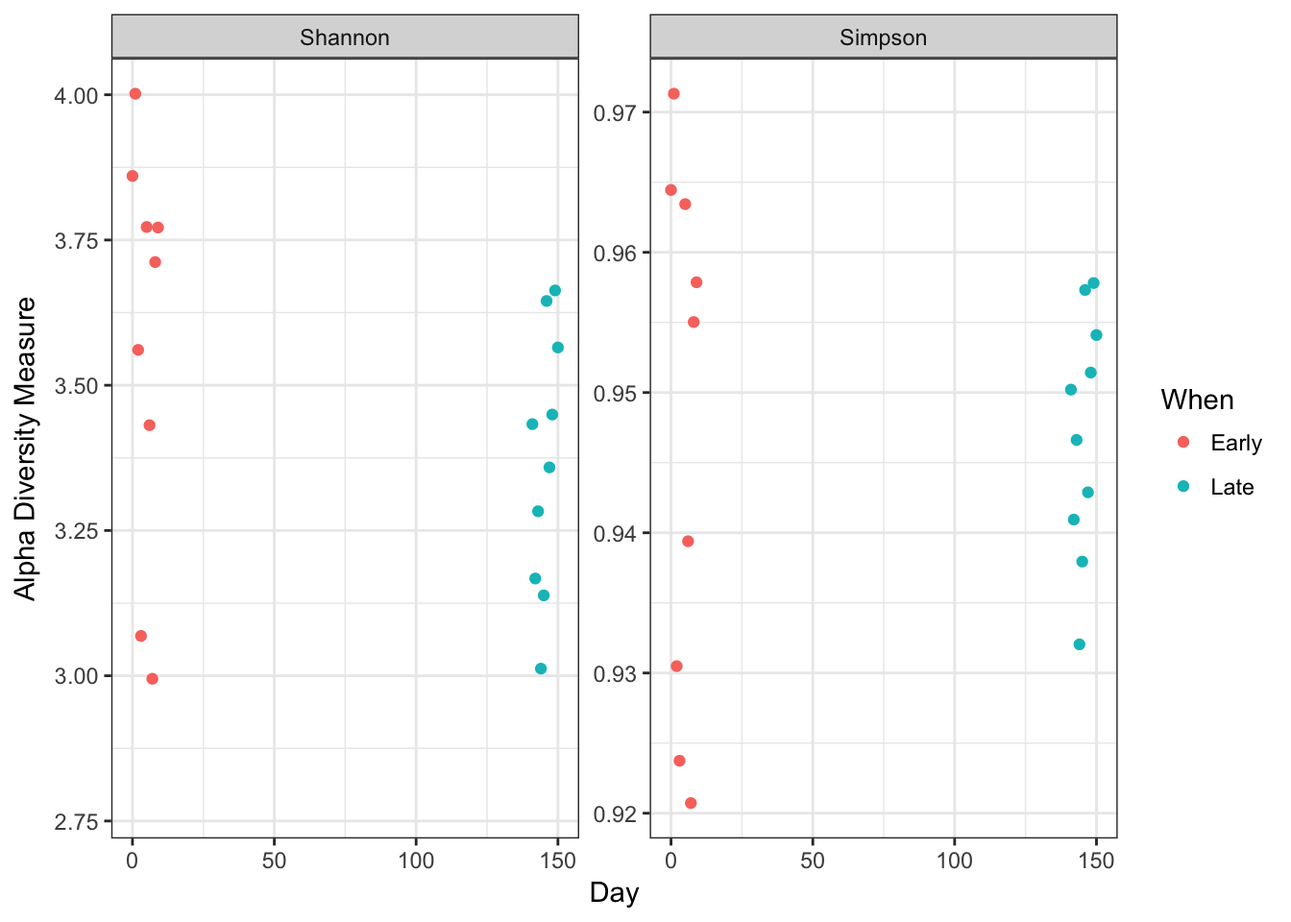
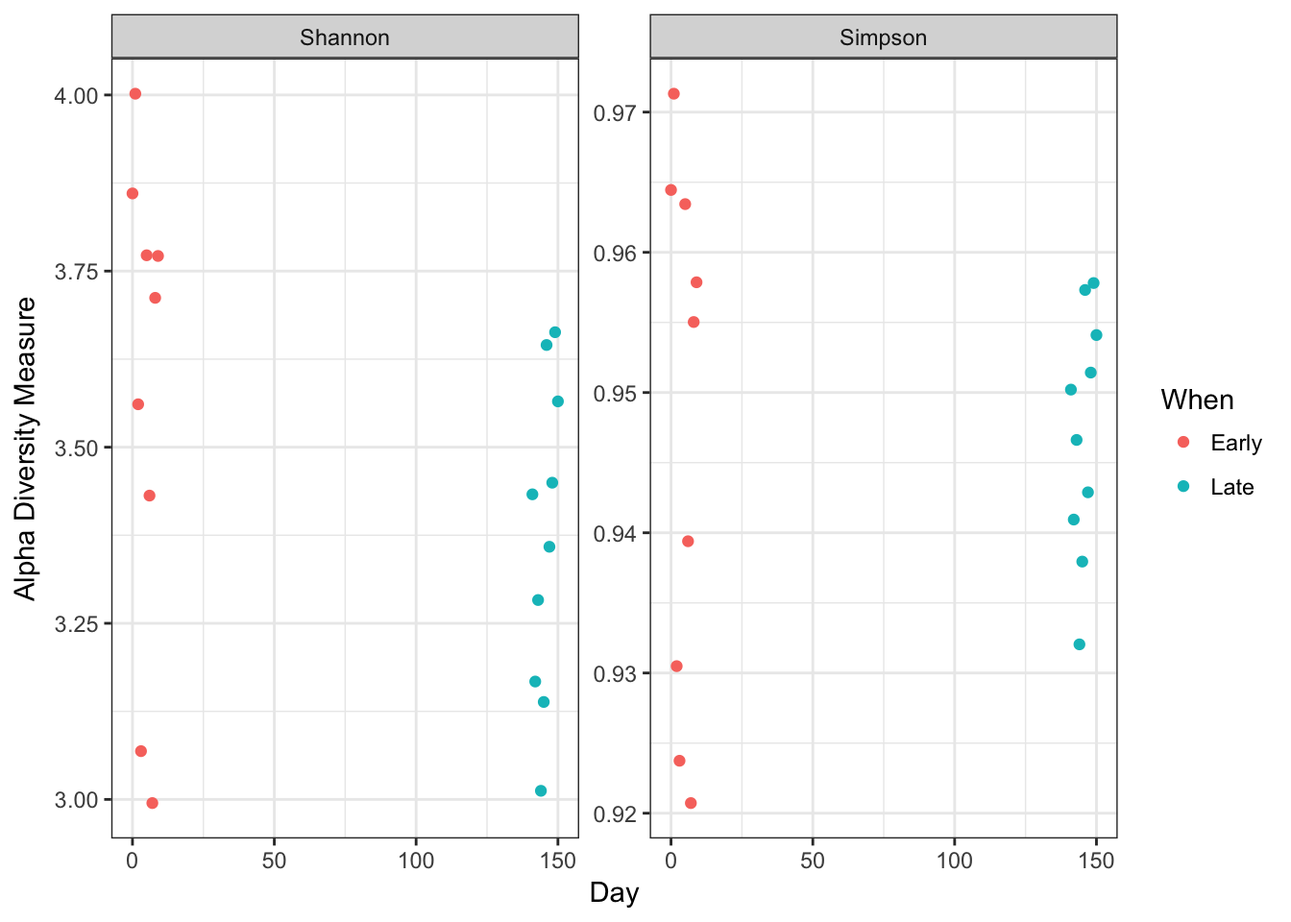
Minor fixes to 1.4 Tutorial
Gotta remove that mock sample to get a useful ordination!

diff --git a/tutorial_1_4.html b/tutorial_1_4.html
@@ -269,7 +269,7 @@ $(document).ready(function () {
 </div>
 
 
-<p>Here we walk through version 1.4 of the DADA2 pipeline on a small multi-sample dataset. Our starting point is a set of Illumina-sequenced paired-end fastq files that have been split (or “demultiplexed”) by sample and from which the barcodes/adapters have already been removed. The end product is a <strong>sequence table</strong>, a higher-resolution analogue of the ubiquitous “OTU table”, which records the number of times each ribosomal sequence variant (SV) was observed in each sample. We also assign taxonomy to the output sequences, and demonstrate how the data can be imported into the popular <a href="https://joey711.github.io/phyloseq/">phyloseq</a> R package for the analysis of microbiome data.</p>
+<p>Here we walk through version 1.4 of the DADA2 pipeline on a small multi-sample dataset. Our starting point is a set of Illumina-sequenced paired-end fastq files that have been split (or “demultiplexed”) by sample and from which the barcodes/adapters have already been removed. The end product is a <strong>sequence variant (SV) table</strong>, a higher-resolution analogue of the ubiquitous “OTU table”, which records the number of times each ribosomal sequence variant (SV) was observed in each sample. We also assign taxonomy to the output sequences, and demonstrate how the data can be imported into the popular <a href="https://joey711.github.io/phyloseq/">phyloseq</a> R package for the analysis of microbiome data.</p>
 <hr />
 <div id="starting-point" class="section level1">
 <h1>Starting point</h1>
@@ -283,11 +283,11 @@ $(document).ready(function () {
 </div>
 <div id="getting-ready" class="section level1">
 <h1>Getting ready</h1>
-<p>First we load the necessary libraries. If you don’t already have the dada2 package, see the <a href="dada-installation.html">dada2 installation instructions</a>. The ggplot2 package is also available from <a href="http://bioconductor.org/install/">Bioconductor</a>:</p>
+<p>First we load the <code>dada2</code> library. If you don’t already have the dada2 package, see the <a href="dada-installation.html">dada2 installation instructions</a>:</p>
 <pre class="r"><code>library(dada2); packageVersion(&quot;dada2&quot;)</code></pre>
 <pre><code>## [1] &#39;1.3.4&#39;</code></pre>
 <p><em>If your dada2 version is &lt;1.3.4 you must upgrade to the current development version to run this workflow. See the <a href="http://benjjneb.github.io/dada2/dada-installation.html#install-from-source">installation from source instructions</a>: the <code>devtools</code> method is probably the easiest.</em></p>
-<p>The data we will work with are the same as those in the <a href="http://www.mothur.org/wiki/MiSeq_SOP">Mothur Miseq SOP</a> walkthrough. Download the <a href="http://www.mothur.org/w/images/d/d6/MiSeqSOPData.zip">example data</a> and unzip it. These files represent longitudinal samples from a mouse post-weaning as well as one mock community control. But for now just consider them as paired-end fastq files to be processed. Define the following path variable so that it points to the extracted directory on <strong>your</strong> machine:</p>
+<p>The data we will work with are the same as those in the <a href="http://www.mothur.org/wiki/MiSeq_SOP">Mothur Miseq SOP</a> walkthrough. Download the <a href="http://www.mothur.org/w/images/d/d6/MiSeqSOPData.zip">example data</a> and unzip. These files represent longitudinal samples from a mouse post-weaning and one mock community control. For now just consider them paired-end fastq files to be processed. Define the following path variable so that it points to the extracted directory on <strong>your</strong> machine:</p>
 <pre class="r"><code>path &lt;- &quot;~/MiSeq_SOP&quot; # CHANGE ME to the directory containing the fastq files after unzipping.
 list.files(path)</code></pre>
 <pre><code>##  [1] &quot;F3D0_S188_L001_R1_001.fastq&quot;   &quot;F3D0_S188_L001_R2_001.fastq&quot;  
@@ -309,41 +309,41 @@ list.files(path)</code></pre>
 ## [33] &quot;F3D7_S195_L001_R1_001.fastq&quot;   &quot;F3D7_S195_L001_R2_001.fastq&quot;  
 ## [35] &quot;F3D8_S196_L001_R1_001.fastq&quot;   &quot;F3D8_S196_L001_R2_001.fastq&quot;  
 ## [37] &quot;F3D9_S197_L001_R1_001.fastq&quot;   &quot;F3D9_S197_L001_R2_001.fastq&quot;  
-## [39] &quot;full&quot;                          &quot;HMP_MOCK.v35.fasta&quot;           
-## [41] &quot;Mock_S280_L001_R1_001.fastq&quot;   &quot;Mock_S280_L001_R2_001.fastq&quot;  
-## [43] &quot;mouse.dpw.metadata&quot;            &quot;mouse.time.design&quot;            
-## [45] &quot;stability.batch&quot;               &quot;stability.files&quot;</code></pre>
-<p>If the packages successfully loaded and your listed files match those here, then you are ready to go through the DADA2 pipeline.</p>
+## [39] &quot;filtered&quot;                      &quot;full&quot;                         
+## [41] &quot;HMP_MOCK.v35.fasta&quot;            &quot;Mock_S280_L001_R1_001.fastq&quot;  
+## [43] &quot;Mock_S280_L001_R2_001.fastq&quot;   &quot;mouse.dpw.metadata&quot;           
+## [45] &quot;mouse.time.design&quot;             &quot;stability.batch&quot;              
+## [47] &quot;stability.files&quot;</code></pre>
+<p>If the package successfully loaded and your listed files match those here, you are ready to go through the DADA2 pipeline.</p>
 <p> </p>
 </div>
-<div id="filtering-and-trimming" class="section level1">
-<h1>Filtering and Trimming</h1>
+<div id="filter-and-trim" class="section level1">
+<h1>Filter and Trim</h1>
 <p>First we read in the names of the fastq files, and perform some string manipulation to get lists of the forward and reverse fastq files in matched order:</p>
 <pre class="r"><code># Sort ensures forward/reverse reads are in same order
 fnFs &lt;- sort(list.files(path, pattern=&quot;_R1_001.fastq&quot;))
 fnRs &lt;- sort(list.files(path, pattern=&quot;_R2_001.fastq&quot;))
-# Get sample names, assuming filenames have format: SAMPLENAME_XXX.fastq
+# Extract sample names, assuming filenames have format: SAMPLENAME_XXX.fastq
 sample.names &lt;- sapply(strsplit(fnFs, &quot;_&quot;), `[`, 1)
 # Specify the full path to the fnFs and fnRs
 fnFs &lt;- file.path(path, fnFs)
 fnRs &lt;- file.path(path, fnRs)</code></pre>
-<p><strong><span style="color:red">If using this workflow on your own data:</span></strong> The string manipulations above, especially the extraction of sample names from the file names, may have to be modified.</p>
+<p><strong><span style="color:red">If using this workflow on your own data:</span></strong> The string manipulations may have to be modified, especially the extraction of sample names from the file names.</p>
 <div id="examine-quality-profiles-of-forward-and-reverse-reads" class="section level2">
 <h2>Examine quality profiles of forward and reverse reads</h2>
-<p>It is important to look at your data. We start by visualizing the quality profiles along the sequencing reads.</p>
-<p><strong>Visualize the quality profile of the forward reads</strong>:</p>
+<p>It is important to look at your data. We start by visualizing the quality profiles of the forward reads:</p>
 <pre class="r"><code>plotQualityProfile(fnFs[1:2])</code></pre>
 <p><img src="tutorial_1_4_files/figure-html/see-quality-F-1.png" width="672" /></p>
 <p>The forward reads are good quality. We generally advise trimming the last few nucleotides to avoid less well-controlled errors that can arise there. There is no suggestion from these quality profiles that any additional trimming is needed, so we will truncate the forward reads at position 240 (trimming the last 10 nucleotides).</p>
-<p><strong>Visualize the quality profile of the reverse reads</strong>:</p>
+<p>Now we visualize the quality profile of the reverse reads:</p>
 <pre class="r"><code>plotQualityProfile(fnRs[1:2])</code></pre>
 <p><img src="tutorial_1_4_files/figure-html/see-quality-R-1.png" width="672" /></p>
-<p>The reverse reads are of significantly worse quality, especially at the end, which is common in Illumina sequencing. This isn’t too worrisome, DADA2 incorporates quality information into its error model which makes the algorithm <a href="https://twitter.com/bejcal/status/771010634074820608">robust to lower quality sequence</a>, but trimming as the average qualities crash is still a good idea as long as our reads will still overlap. We will truncate at position 160 where the quality distribution crashes.</p>
-<p><strong><span style="color:red">If using this workflow on your own data:</span></strong> <strong>Your reads must overlap after truncation in order to merge them later!!!</strong> The 2x250 V4 sequence data being analyzed here is almost completely overlapping, thus our trimming can be completely guided by the quality scores. If you are using a less-overlapping primer set, like V1-V2 or V3-V4, you must keep enough of each read to maintain the overlap between them (the more the better).</p>
+<p>The reverse reads are significantly worse quality, especially at the end, which is common in Illumina sequencing. This isn’t too worrisome, DADA2 incorporates quality information into its error model which makes the algorithm <a href="https://twitter.com/bejcal/status/771010634074820608">robust to lower quality sequence</a>, but trimming as the average qualities crash is still a good idea as long as our reads will still overlap. We will truncate at position 160 where the quality distribution crashes.</p>
+<p><strong><span style="color:red">If using this workflow on your own data:</span></strong> <strong>Your reads must overlap after truncation in order to merge them later!!!</strong> The tutorial is using 2x250 V4 sequence data, so the forward and reverse reads almost completely overlap and our trimming can be completely guided by the quality scores. If you are using a less-overlapping primer set, like V1-V2 or V3-V4, your <code>truncLen</code> must be large enough to maintain the overlap between them (the more the better).</p>
 </div>
 <div id="perform-filtering-and-trimming" class="section level2">
 <h2>Perform filtering and trimming</h2>
-<p>First we’ll define the filenames for the filtered files, and create a subdirectory to place them in:</p>
+<p>We define the filenames for the filtered fastq.gz files:</p>
 <pre class="r"><code>filt_path &lt;- file.path(path, &quot;filtered&quot;) # Place filtered files in filtered/ subdirectory
 filtFs &lt;- file.path(filt_path, paste0(sample.names, &quot;_F_filt.fastq.gz&quot;))
 filtRs &lt;- file.path(filt_path, paste0(sample.names, &quot;_R_filt.fastq.gz&quot;))</code></pre>
@@ -361,12 +361,13 @@ head(out)</code></pre>
 ## F3D143_S209_L001_R1_001.fastq     3178      2941
 ## F3D144_S210_L001_R1_001.fastq     4827      4312</code></pre>
 <p><strong><span style="color:red">If using this workflow on your own data:</span></strong> The standard filtering parameters are starting points, not set in stone. For example, if too few reads are passing the filter, considering relaxing <code>maxEE</code>, perhaps especially on the reverse reads (eg. <code>maxEE=c(2,5)</code>). If you want to speed up downstream computation, consider tightening <code>maxEE</code>. For pair-end reads consider the length of your amplicon when choosing <code>truncLen</code> as <strong>your reads must overlap after truncation in order to merge them later!!!</strong></p>
+<p><strong><span style="color:red">If using this workflow on your own data:</span></strong> For common ITS amplicon strategies, it is undesirable to truncate reads to a fixed length due to the large amount of length variation at that locus. That is OK, just leave out <code>truncLen</code>. Make sure you removed the forward and reverse primers from both the forward and reverse reads though!</p>
 <p> </p>
 </div>
 </div>
 <div id="learn-the-error-rates" class="section level1">
 <h1>Learn the Error Rates</h1>
-<p>The DADA2 algorithm depends on a parametric error model (<code>err</code>) and every amplicon dataset has a different set of error rates. The <code>learnErrors</code> method learns the error model from the data, by alternating estimation of the error rates and inference of sample composition until they converge on a jointly consistent solution (this is similar to the E-M algorithm). As in many optimization problems, the algorithm must begin with an initial guess, for which the maximum possible error rates in this data are used (the error rates if only the most abundant sequence is correct and all the rest are errors).</p>
+<p>The DADA2 algorithm depends on a parametric error model (<code>err</code>) and every amplicon dataset has a different set of error rates. The <code>learnErrors</code> method learns the error model from the data, by alternating estimation of the error rates and inference of sample composition until they converge on a jointly consistent solution. As in many optimization problems, the algorithm must begin with an initial guess, for which the maximum possible error rates in this data are used (the error rates if only the most abundant sequence is correct and all the rest are errors).</p>
 <p><em>The following runs in about 4 minutes on a 2013 Macbook Pro:</em></p>
 <pre class="r"><code>errF &lt;- learnErrors(filtFs, multithread=TRUE)</code></pre>
 <pre><code>## Initializing error rates to maximum possible estimate.
@@ -433,12 +434,12 @@ head(out)</code></pre>
 <pre class="r"><code>plotErrors(errF, nominalQ=TRUE)</code></pre>
 <p><img src="tutorial_1_4_files/figure-html/plot-errors-1.png" width="672" /></p>
 <p>The error rates for each possible transition (eg. A-&gt;C, A-&gt;G, …) are shown. Points are the observed error rates for each consensus quality score. The black line shows the estimated error rates after convergence. The red line shows the error rates expected under the nominal definition of the Q-value. Here the black line (the estimated rates) fits the observed rates well, and the error rates drop with increased quality as expected. Everything looks reasonable and we proceed with confidence.</p>
-<p><strong><span style="color:red">If using this workflow on your own data:</span></strong> Parameter learning is computationally intensive, so by default the <code>learnErrors</code> function uses only a subset of the data (the first 1M reads). If the plotted error model does not look like a good fit, it may be worth increasing the <code>nreads</code> parameter to see if the fit improves.</p>
+<p><strong><span style="color:red">If using this workflow on your own data:</span></strong> Parameter learning is computationally intensive, so by default the <code>learnErrors</code> function uses only a subset of the data (the first 1M reads). If the plotted error model does not look like a good fit, try increasing the <code>nreads</code> parameter to see if the fit improves.</p>
 <p> </p>
 </div>
 <div id="dereplication" class="section level1">
 <h1>Dereplication</h1>
-<p>Dereplication combines all identical sequencing reads into into “unique sequences” with a corresponding “abundance”: the number of reads with that same sequence. Dereplication substantially reduces computation time by eliminating redundant comparisons.</p>
+<p>Dereplication combines all identical sequencing reads into into “unique sequences” with a corresponding “abundance”: the number of reads with that unique sequence. Dereplication substantially reduces computation time by eliminating redundant comparisons.</p>
 <p>Dereplication in the DADA2 pipeline has one crucial addition from other pipelines: <strong>DADA2 retains a summary of the quality information associated with each unique sequence</strong>. The consensus quality profile of a unique sequence is the average of the positional qualities from the dereplicated reads. These quality profiles inform the error model of the subsequent denoising step, significantly increasing DADA2’s accuracy.</p>
 <p><strong>Dereplicate the filtered fastq files</strong>:</p>
 <pre class="r"><code>derepFs &lt;- derepFastq(filtFs, verbose=TRUE)
@@ -500,15 +501,15 @@ names(derepRs) &lt;- sample.names</code></pre>
 <pre><code>## dada-class: object describing DADA2 denoising results
 ## 128 sample sequences were inferred from 1979 input unique sequences.
 ## Key parameters: OMEGA_A = 1e-40, BAND_SIZE = 16, USE_QUALS = TRUE</code></pre>
-<p>The DADA2 algorithm inferred 128 real variants from the 1979 unique sequences in the first sample. There is much more to the <code>dada-class</code> return object than this (see <code>help(&quot;dada-class&quot;)</code> for some info), including multiple diagnostics about the quality of each inferred sample sequence, but that is beyond the scope of an introductory tutorial.</p>
-<p><strong><span style="color:red">If using this workflow on your own data:</span></strong> All samples are loaded into memory for the tutorial sample inference step. If you are dealing with datasets that near or exceed available RAM, it is preferable to process samples one-by-one in a streaming fashion: see the <a href="bigdata.html">DADA2 Workflow on Big Data</a> for an example.</p>
-<p><strong><span style="color:red">If using this workflow on your own data:</span></strong> By default, the <code>dada</code> function processes each sample independently, but pooled processing is available with <code>pool=TRUE</code> and that may give better results for low sampling depths at the cost of increased computation time. See <a href="pool.html">our discussion about pooling samples for sample inference</a> for more details.</p>
-<p><strong><span style="color:red">If using this workflow on your own data:</span></strong> DADA2 also supports 454 and Ion Torrent data, but <a href="faq.html#can-i-use-dada2-with-my-454-or-ion-torrent-data">we recommend some minor parameter changes</a> for those sequencing technologies. The adventurous can explore <code>?setDadaOpt</code> for a description of other adjustable algorithm parameters.</p>
+<p>The DADA2 algorithm inferred 128 real variants from the 1979 unique sequences in the first sample. There is much more to the <code>dada-class</code> return object than this (see <code>help(&quot;dada-class&quot;)</code> for some info), including multiple diagnostics about the quality of each inferred sequence variant, but that is beyond the scope of an introductory tutorial.</p>
+<p><strong><span style="color:red">If using this workflow on your own data:</span></strong> All samples are simultaneously loaded into memory in the tutorial. If you are dealing with datasets that approach or exceed available RAM, it is preferable to process samples one-by-one in a streaming fashion: see the <a href="bigdata.html">DADA2 Workflow on Big Data</a> for an example.</p>
+<p><strong><span style="color:red">If using this workflow on your own data:</span></strong> By default, the <code>dada</code> function processes each sample independently, but pooled processing is available with <code>pool=TRUE</code> and that may give better results for low sampling depths at the cost of increased computation time. See our <a href="pool.html">discussion about pooling samples for sample inference</a>.</p>
+<p><strong><span style="color:red">If using this workflow on your own data:</span></strong> DADA2 also supports 454 and Ion Torrent data, but <a href="faq.html#can-i-use-dada2-with-my-454-or-ion-torrent-data">we recommend some minor parameter changes</a> for those sequencing technologies. The adventurous can explore <code>?setDadaOpt</code> for other adjustable algorithm parameters.</p>
 <p> </p>
 </div>
 <div id="merge-paired-reads" class="section level1">
 <h1>Merge paired reads</h1>
-<p>Spurious sequence variants can be further reduced by merging these overlapping reads. The core function here is <code>mergePairs</code>, which depends on the forward and reverse reads being in matching order at the time they were dereplicated.</p>
+<p>Spurious sequence variants are further reduced by merging overlapping reads. The core function here is <code>mergePairs</code>, which depends on the forward and reverse reads being in matching order at the time they were dereplicated.</p>
 <p><strong>Merge the denoised forward and reverse reads</strong>:</p>
 <pre class="r"><code>mergers &lt;- mergePairs(dadaFs, derepFs, dadaRs, derepRs, verbose=TRUE)
 # Inspect the merger data.frame from the first sample
@@ -528,12 +529,12 @@ head(mergers[[1]])</code></pre>
 ## 5       353       5       6    148         0      0      1   TRUE
 ## 6       285       6       5    148         0      0      2   TRUE</code></pre>
 <p>We now have a <code>data.frame</code> for each sample with the merged <code>$sequence</code>, its <code>$abundance</code>, and the indices of the merged <code>$forward</code> and <code>$reverse</code> denoised sequences. Paired reads that did not exactly overlap were removed by <code>mergePairs</code>.</p>
-<p><strong><span style="color:red">If using this workflow on your own data:</span></strong> Most of your <strong>reads</strong> should successfully merge. If that is not the case, upstream parameters may need to be revisited. In particular, did you trim away the overlap between your reads?</p>
+<p><strong><span style="color:red">If using this workflow on your own data:</span></strong> Most of your <strong>reads</strong> should successfully merge. If that is not the case upstream parameters may need to be revisited: Did you trim away the overlap between your reads?</p>
 <p> </p>
 </div>
 <div id="construct-sequence-table" class="section level1">
 <h1>Construct sequence table</h1>
-<p>We can now construct a sequence table of our mouse samples that is analagous to the “OTU table” produced by classical methods:</p>
+<p>We can now construct a “sequence table” of our mouse samples, a higher-resolution version of the “OTU table” produced by classical methods:</p>
 <pre class="r"><code>seqtab &lt;- makeSequenceTable(mergers)</code></pre>
 <pre><code>## The sequences being tabled vary in length.</code></pre>
 <pre class="r"><code>dim(seqtab)</code></pre>
@@ -543,7 +544,7 @@ table(nchar(getSequences(seqtab)))</code></pre>
 <pre><code>## 
 ## 251 252 253 254 255 
 ##   1  87 192   6   2</code></pre>
-<p>The sequence table is a <code>matrix</code> with rows corresponding to (and named by) the samples, and columns corresponding to (and named by) the sequence variants. The lengths of our merged sequences all fall within the expected range for the V4 amplicon.</p>
+<p>The sequence table is a <code>matrix</code> with rows corresponding to (and named by) the samples, and columns corresponding to (and named by) the sequence variants. The lengths of our merged sequences all fall within the expected range for this V4 amplicon.</p>
 <p><strong><span style="color:red">If using this workflow on your own data:</span></strong> Sequences that are much longer or shorter than expected may be the result of non-specific priming, and may be worth removing (eg. <code>seqtab2 &lt;- seqtab[,nchar(colnames(seqtab)) %in% seq(250,256)]</code>). This is analogous to “cutting a band” in-silico to get amplicons of the targeted length.</p>
 <p> </p>
 </div>
@@ -558,8 +559,10 @@ dim(seqtab.nochim)</code></pre>
 <pre><code>## [1] 0.9643192</code></pre>
 <p>The fraction of chimeras varies based on factors including experimental procedures and sample complexity, but can be substantial. Here chimeras make up about 20% of the inferred sequence variants, but those variants account for only about 4% of the total sequence reads.</p>
 <p><strong><span style="color:red">If using this workflow on your own data:</span></strong> Most of your <strong>reads</strong> should remain after chimera removal (it is not uncommon for a majority of <strong>sequence variants</strong> to be removed though). If most of your reads were removed as chimeric, upstream processing may need to be revisited. In almost all cases this is caused by primer sequences with ambiguous nucleotides that were not removed prior to beginning the DADA2 pipeline.</p>
-<div id="track-reads-through-the-pipeline" class="section level2">
-<h2>Track reads through the pipeline</h2>
+<p> </p>
+</div>
+<div id="track-reads-through-the-pipeline" class="section level1">
+<h1>Track reads through the pipeline</h1>
 <p>As a final check of our progress, we’ll look at the number of reads that made it through each step in the pipeline:</p>
 <pre class="r"><code>getN &lt;- function(x) sum(getUniques(x))
 track &lt;- cbind(out, sapply(dadaFs, getN), sapply(mergers, getN), rowSums(seqtab), rowSums(seqtab.nochim))
@@ -573,10 +576,9 @@ head(track)</code></pre>
 ## F3D142  3183     2914     2914   2663   2663    2600
 ## F3D143  3178     2941     2941   2575   2575    2550
 ## F3D144  4827     4312     4312   3668   3668    3527</code></pre>
-<p>Looks good, we have kept the majority of our raw reads, and there is no over-large drop associated with any single step.</p>
-<p><strong><span style="color:red">If using this workflow on your own data:</span></strong> This is a great place to do a last <strong>sanity check</strong>. Outside of filtering (depending on how stringent you want to be) there should no step in which a majority of reads are lost. If a majority of reads failed to merge, you may need to revisit the <code>truncLen</code> parameter used in the filtering step and make sure that the truncated reads span your amplicon. If a majority of reads failed to pass the chimera check, you may need to revisit the removal of primers, as the ambiguous nucleotides in unremoved primers interferes with chimera identification.</p>
+<p>Looks good, we kept the majority of our raw reads, and there is no over-large drop associated with any single step.</p>
+<p><strong><span style="color:red">If using this workflow on your own data:</span></strong> This is a great place to do a last <strong>sanity check</strong>. Outside of filtering (depending on how stringent you want to be) there should no step in which a majority of reads are lost. If a majority of reads failed to merge, you may need to revisit the <code>truncLen</code> parameter used in the filtering step and make sure that the truncated reads span your amplicon. If a majority of reads failed to pass the chimera check, you may need to revisit the removal of primers, as the ambiguous nucleotides in unremoved primers interfere with chimera identification.</p>
 <p> </p>
-</div>
 </div>
 <div id="assign-taxonomy" class="section level1">
 <h1>Assign taxonomy</h1>
@@ -595,29 +597,29 @@ unname(head(taxa))</code></pre>
 ##      [,5]                 [,6]         
 ## [1,] &quot;Porphyromonadaceae&quot; NA           
 ## [2,] &quot;Porphyromonadaceae&quot; NA           
-## [3,] &quot;Porphyromonadaceae&quot; &quot;Barnesiella&quot;
+## [3,] &quot;Porphyromonadaceae&quot; NA           
 ## [4,] &quot;Porphyromonadaceae&quot; &quot;Barnesiella&quot;
 ## [5,] &quot;Bacteroidaceae&quot;     &quot;Bacteroides&quot;
 ## [6,] &quot;Porphyromonadaceae&quot; &quot;Barnesiella&quot;</code></pre>
 <p>Unsurprisingly, the Bacteroidetes are well represented among the most abundant taxa in these fecal samples.</p>
 <p><em><a href="assign.html#species-assignment">Species-level assignment using exact matching</a> is also available.</em></p>
-<p><strong><span style="color:red">If using this workflow on your own data:</span></strong> If your reads do not seem to be appropriately assigned, for example lots of your bacterial 16S sequences are being assigned as Eukaryota NA NA NA NA NA, your reads may not be in the opposite orientation as the reference database. Tell dada2 to try the reverse-complement orientation as well with <code>assignTaxonomy(..., tryRC=TRUE)</code>, and see if this fixes the assignments.</p>
+<p><strong><span style="color:red">If using this workflow on your own data:</span></strong> If your reads do not seem to be appropriately assigned, for example lots of your bacterial 16S sequences are being assigned as “Eukaryota NA NA NA NA NA”, your reads may be in the opposite orientation as the reference database. Tell dada2 to try the reverse-complement orientation with <code>assignTaxonomy(..., tryRC=TRUE)</code> and see if this fixes the assignments.</p>
 <p> </p>
 </div>
 <div id="evaluate-accuracy" class="section level1">
 <h1>Evaluate accuracy</h1>
-<p>One of the processed samples was a “mock community”, in which a mixture of 20 known strains was sequenced (this mock community is supposed to be 21 strains, but <em>P. acnes</em> was absent). Reference sequences corresponding to these strains were provided in the downloaded zip archive. We dropped the Mock sample when making our sequence table, but we return to that sample and compare the sequence variants inferred by DADA2 to the expected composition of the community.</p>
+<p>One of the processed samples was a “mock community”, in which a mixture of 20 known strains was sequenced (this mock community is supposed to be 21 strains, but <em>P. acnes</em> was absent). Reference sequences corresponding to these strains were provided in the downloaded zip archive. We return to that sample and compare the sequence variants inferred by DADA2 to the expected composition of the community.</p>
 <p><strong>Evaluating DADA2’s accuracy on the mock community</strong>:</p>
-<pre class="r"><code>unqs.mock &lt;- getUniques(removeBimeraDenovo(mergers[[&quot;Mock&quot;]], verbose=TRUE))</code></pre>
-<pre><code>## Identified 0 bimeras out of 20 input sequences.</code></pre>
-<pre class="r"><code>cat(&quot;DADA2 inferred&quot;, length(unqs.mock), &quot;sample sequences present in the Mock community.\n&quot;)</code></pre>
+<pre class="r"><code>unqs.mock &lt;- seqtab.nochim[&quot;Mock&quot;,]
+unqs.mock &lt;- sort(unqs.mock[unqs.mock&gt;0], decreasing=TRUE) # Drop SVs absent in the Mock
+cat(&quot;DADA2 inferred&quot;, length(unqs.mock), &quot;sample sequences present in the Mock community.\n&quot;)</code></pre>
 <pre><code>## DADA2 inferred 20 sample sequences present in the Mock community.</code></pre>
 <pre class="r"><code>mock.ref &lt;- getSequences(file.path(path, &quot;HMP_MOCK.v35.fasta&quot;))
 match.ref &lt;- sum(sapply(names(unqs.mock), function(x) any(grepl(x, mock.ref))))
 cat(&quot;Of those,&quot;, sum(match.ref), &quot;were exact matches to the expected reference sequences.\n&quot;)</code></pre>
 <pre><code>## Of those, 20 were exact matches to the expected reference sequences.</code></pre>
-<p>This mock community dataset contained <strong>20</strong> bacterial strains. DADA2 found <strong>20</strong> unique sequences all of which <strong>exactly</strong> match the reference genomes of the expected community members. The residual error rate after the DADA2 pipeline for this sample is <strong>0%</strong>.</p>
-<p>In comparison, <a href="http://www.mothur.org/wiki/MiSeq_SOP#Assessing_error_rates">the mothur pipeline finds 34 OTUs in this Mock community sample</a>. DADA2 infers sequence variants exactly instead of fuzzy 97% OTUs, and outputs fewer false positives than the OTU methods!</p>
+<p>This mock community contained <strong>20</strong> bacterial strains. DADA2 identified <strong>20</strong> sequence variants all of which <strong>exactly</strong> match the reference genomes of the expected community members. The residual error rate after the DADA2 pipeline for this sample is <strong>0%</strong>.</p>
+<p>In comparison, <a href="http://www.mothur.org/wiki/MiSeq_SOP#Assessing_error_rates">the mothur pipeline finds 34 OTUs in this Mock community sample</a>. DADA2 infers sequence variants exactly instead of fuzzy 97% OTUs, and outputs fewer false positives to boot!</p>
 <p><strong>Here ends the DADA2 portion of the tutorial</strong>.</p>
 <hr />
 </div>
@@ -644,10 +646,11 @@ rownames(samdf) &lt;- samples.out
 ps &lt;- phyloseq(otu_table(seqtab.nochim, taxa_are_rows=FALSE), 
                sample_data(samdf), 
                tax_table(taxa))
+ps &lt;- prune_samples(sample_names(ps) != &quot;Mock&quot;, ps) # Remove mock sample
 ps</code></pre>
 <pre><code>## phyloseq-class experiment-level object
-## otu_table()   OTU Table:         [ 229 taxa and 20 samples ]
-## sample_data() Sample Data:       [ 20 samples by 4 sample variables ]
+## otu_table()   OTU Table:         [ 229 taxa and 19 samples ]
+## sample_data() Sample Data:       [ 19 samples by 4 sample variables ]
 ## tax_table()   Taxonomy Table:    [ 229 taxa by 6 taxonomic ranks ]</code></pre>
 <p>We are now ready to use phyloseq.</p>
 <p><strong>Visualize alpha-diversity</strong>:</p>
@@ -658,74 +661,50 @@ ps</code></pre>
 <pre class="r"><code>ord.nmds.bray &lt;- ordinate(ps, method=&quot;NMDS&quot;, distance=&quot;bray&quot;)</code></pre>
 <pre><code>## Square root transformation
 ## Wisconsin double standardization
-## Run 0 stress 9.877578e-05 
-## Run 1 stress 9.98491e-05 
-## ... Procrustes: rmse 0.0001261031  max resid 0.0003099586 
+## Run 0 stress 0.08908957 
+## Run 1 stress 0.08908958 
+## ... Procrustes: rmse 1.762836e-05  max resid 4.455652e-05 
 ## ... Similar to previous best
-## Run 2 stress 9.304818e-05 
+## Run 2 stress 0.08908957 
 ## ... New best solution
-## ... Procrustes: rmse 0.0001528324  max resid 0.0003309707 
+## ... Procrustes: rmse 8.499038e-06  max resid 1.67806e-05 
 ## ... Similar to previous best
-## Run 3 stress 7.362916e-05 
+## Run 3 stress 0.0890896 
+## ... Procrustes: rmse 6.166348e-05  max resid 0.0001643509 
+## ... Similar to previous best
+## Run 4 stress 0.08908957 
 ## ... New best solution
-## ... Procrustes: rmse 0.0001081536  max resid 0.0001850354 
+## ... Procrustes: rmse 5.510001e-06  max resid 1.146446e-05 
 ## ... Similar to previous best
-## Run 4 stress 9.528087e-05 
-## ... Procrustes: rmse 5.720888e-05  max resid 0.0001073182 
+## Run 5 stress 0.09001141 
+## Run 6 stress 0.09001141 
+## Run 7 stress 0.08908958 
+## ... Procrustes: rmse 2.704793e-05  max resid 5.430095e-05 
 ## ... Similar to previous best
-## Run 5 stress 9.471717e-05 
-## ... Procrustes: rmse 0.0001142379  max resid 0.0001729811 
+## Run 8 stress 0.08908957 
+## ... Procrustes: rmse 1.255772e-05  max resid 3.123112e-05 
 ## ... Similar to previous best
-## Run 6 stress 8.864277e-05 
-## ... Procrustes: rmse 5.316425e-05  max resid 9.590466e-05 
+## Run 9 stress 0.08908957 
+## ... Procrustes: rmse 2.045361e-05  max resid 5.082873e-05 
 ## ... Similar to previous best
-## Run 7 stress 9.390948e-05 
-## ... Procrustes: rmse 5.631933e-05  max resid 0.0001038212 
+## Run 10 stress 0.1534716 
+## Run 11 stress 0.08908957 
+## ... Procrustes: rmse 8.310372e-06  max resid 1.535303e-05 
 ## ... Similar to previous best
-## Run 8 stress 9.674319e-05 
-## ... Procrustes: rmse 0.0001089827  max resid 0.0001668481 
+## Run 12 stress 0.08908957 
+## ... Procrustes: rmse 2.088864e-05  max resid 5.600624e-05 
 ## ... Similar to previous best
-## Run 9 stress 7.283629e-05 
-## ... New best solution
-## ... Procrustes: rmse 5.081556e-05  max resid 9.453545e-05 
-## ... Similar to previous best
-## Run 10 stress 9.896419e-05 
-## ... Procrustes: rmse 0.0001276437  max resid 0.0002138103 
-## ... Similar to previous best
-## Run 11 stress 8.524193e-05 
-## ... Procrustes: rmse 6.076395e-05  max resid 0.0001130722 
-## ... Similar to previous best
-## Run 12 stress 9.612047e-05 
-## ... Procrustes: rmse 5.845204e-05  max resid 0.0001134457 
-## ... Similar to previous best
-## Run 13 stress 9.490153e-05 
-## ... Procrustes: rmse 5.814692e-05  max resid 9.647137e-05 
-## ... Similar to previous best
-## Run 14 stress 7.161095e-05 
-## ... New best solution
-## ... Procrustes: rmse 4.119464e-05  max resid 8.074436e-05 
-## ... Similar to previous best
-## Run 15 stress 9.965661e-05 
-## ... Procrustes: rmse 0.0001550277  max resid 0.0002442425 
-## ... Similar to previous best
-## Run 16 stress 9.063042e-05 
-## ... Procrustes: rmse 0.0001659198  max resid 0.0003041153 
-## ... Similar to previous best
-## Run 17 stress 8.170458e-05 
-## ... Procrustes: rmse 4.965069e-05  max resid 8.003727e-05 
-## ... Similar to previous best
-## Run 18 stress 9.389686e-05 
-## ... Procrustes: rmse 0.0001683687  max resid 0.0002695901 
-## ... Similar to previous best
-## Run 19 stress 7.340014e-05 
-## ... Procrustes: rmse 5.35212e-05  max resid 8.951072e-05 
-## ... Similar to previous best
-## Run 20 stress 9.671508e-05 
-## ... Procrustes: rmse 0.000178016  max resid 0.0003150101 
+## Run 13 stress 0.09001141 
+## Run 14 stress 0.09001141 
+## Run 15 stress 0.1442139 
+## Run 16 stress 0.09001141 
+## Run 17 stress 0.09001142 
+## Run 18 stress 0.09001142 
+## Run 19 stress 0.1576633 
+## Run 20 stress 0.08908957 
+## ... Procrustes: rmse 1.484503e-05  max resid 3.042072e-05 
 ## ... Similar to previous best
 ## *** Solution reached</code></pre>
-<pre><code>## Warning in metaMDS(veganifyOTU(physeq), distance, ...): Stress is (nearly)
-## zero - you may have insufficient data</code></pre>
 <pre class="r"><code>plot_ordination(ps, ord.nmds.bray, color=&quot;When&quot;, title=&quot;Bray NMDS&quot;)</code></pre>
 <p><img src="tutorial_1_4_files/figure-html/ordinate-1.png" width="672" /></p>
 <p>Ordination picks out a clear separation between the early and late samples.</p>
@@ -734,7 +713,6 @@ ps</code></pre>
 ps.top20 &lt;- transform_sample_counts(ps, function(OTU) OTU/sum(OTU))
 ps.top20 &lt;- prune_taxa(top20, ps.top20)
 plot_bar(ps.top20, x=&quot;Day&quot;, fill=&quot;Family&quot;) + facet_wrap(~When, scales=&quot;free_x&quot;)</code></pre>
-<pre><code>## Warning: Removed 20 rows containing missing values (position_stack).</code></pre>
 <p><img src="tutorial_1_4_files/figure-html/bar-plot-1.png" width="672" /></p>
 <p>Nothing glaringly obvious jumps out from the taxonomic distribution of the top 20 sequences to explain the early-late differentiation.</p>
 <p>This was just a bare bones demonstration of how the data from DADA2 can be easily imported into phyloseq and interrogated. For further examples on the many analyses possible with phyloseq, see <a href="https://joey711.github.io/phyloseq/">the phyloseq web site</a>!</p>
